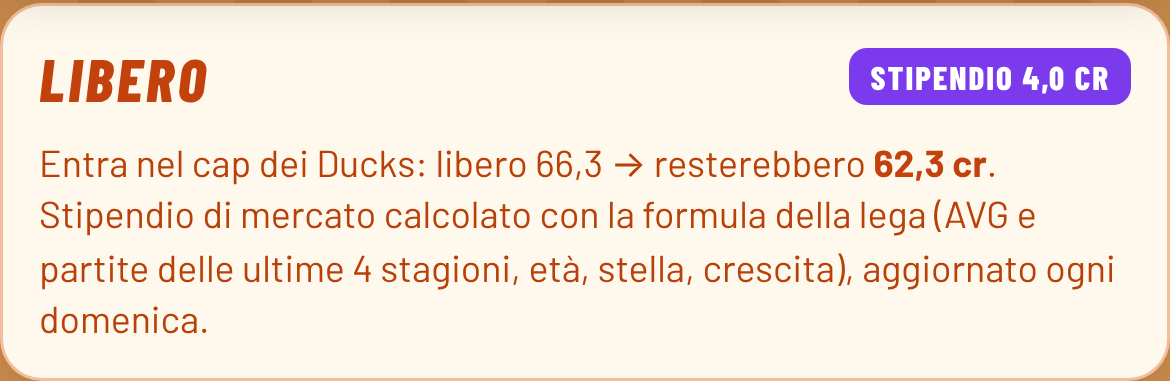
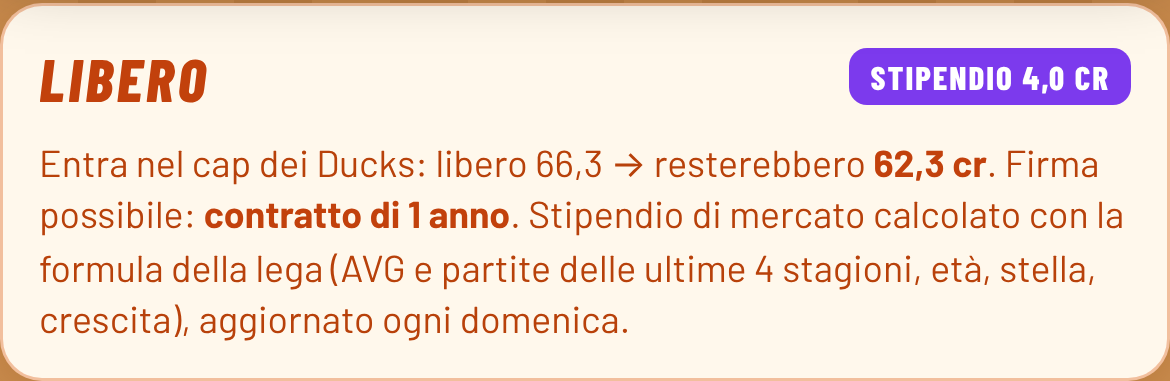
Durata dei contratti secondo lo stipendio (v51)
Claude-Session: https://claude.ai/code/session_01FtktU2z5U25oG1RZDpQNAc

diff --git a/contratti.js b/contratti.js
@@ -31,7 +31,9 @@ let CT=null;function ct(){if(CT)return CT;CT={};if(typeof CAP==="undefined")retu
  for(const t in CAP)for(const p of CAP[t].pl||[]){const y=(p[1]||[]).filter(v=>v!=null);if(!y.length)continue;CT[nk(p[0])]={n:p[0],t,y,rk:!!p[2],tot:y.reduce((a,b)=>a+b,0)}}return CT}
 const contr=n=>ct()[nk(n)]||null;
 /* (48) stipendio di mercato con la formula della lega (stipendi-data.js, aggiornato ogni domenica) */
-let SN=null;const stipOf=n=>{if(typeof STIP==='undefined')return null;if(!SN){SN={};for(const k in STIP.p)SN[nk(k)]=STIP.p[k]}return SN[nk(n)]||null};window.e16Stip=n=>{const x=stipOf(n);return x?x[0]:null};
+let SN=null;const stipOf=n=>{if(typeof STIP==='undefined')return null;if(!SN){SN={};for(const k in STIP.p)SN[nk(k)]=STIP.p[k]}return SN[nk(n)]||null};/* (51) durata dei contratti secondo lo stipendio (regola della lega): 4–9,9 cr = solo 1 anno; 10–14,9 = 1 o 2 anni; da 15 = da 1 a 3 anni */
+const durMax=v=>v>=15?3:v>=10?2:1;const durTxt=v=>{const m=durMax(v);return m===1?"contratto di 1 anno":`contratto da 1 a ${m} anni`};window.e16DurMax=durMax;
+window.e16Stip=n=>{const x=stipOf(n);return x?x[0]:null};
 const trend=x=>!x||x[6]==null||x[6]===x[0]?'':x[0]>x[6]?` <i class="stup">▲ ${f1(x[0]-x[6])}</i>`:` <i class="stdn">▼ ${f1(x[6]-x[0])}</i>`;
 let LI=null;const listino=n=>{if(typeof LISTINO==="undefined")return null;if(!LI){LI={};for(const k in LISTINO)LI[nk(k)]=[k,...LISTINO[k]]}return LI[nk(n)]||null};
 /* AVG di stagione per nome normalizzato (dai tabellini) */
@@ -52,10 +54,10 @@ window.e16ContrBox=function(n){const c0=contr(n),c=c0&&own(n)?c0:null;/* (45) co
  if(c){const left=c.y.length,v=verd(n,c.y[0]);
   return `<div class="ctrbox"><div class="ctrh"><b>Contratto</b>${c.rk?`<span class="ctrrk">R · rookie</span>`:""}${pill(v)}</div>
   <div class="ctry">${YL.map((y,i)=>`<div class="cy${c.y[i]!=null?" on":""}${i===0?" now":""}"><small>${y}</small><b>${c.y[i]!=null?f1(c.y[i]):"–"}</b></div>`).join("")}</div>
-  ${(()=>{/* (49) il contratto firmato NON cambia: lo stipendio della formula è solo la previsione del RINNOVO alla scadenza */const SX=stipOf(n);if(!SX)return"";const left=c.y.length;return `<p class="ctrs ctrmk">Rinnovo previsto (contratto in scadenza a fine ${YF[left-1]}, nuovo dal ${YF[left]||"2031/32"}): <b>${f1(SX[0])} cr/anno</b>${trend(SX)} · ${SX[0]>c.y[0]+.05?`<b class="stup">+${f1(SX[0]-c.y[0])}</b> rispetto a oggi`:SX[0]<c.y[0]-.05?`<b class="stdn">−${f1(c.y[0]-SX[0])}</b> rispetto a oggi`:"come oggi"}. Il contratto firmato resta questo fino alla scadenza; la previsione si aggiorna ogni domenica con la formula della lega.</p>`})()}<p class="ctrs">Totale <b>${f1(c.tot)} cr</b> · ${left===1?"<b>scade a fine stagione</b>":`${left} anni · fino al ${YF[left-1]}`}${TM[c.t]?` · ${e(TM[c.t].nome)}`:""}</p></div>`}
+  ${(()=>{/* (49) il contratto firmato NON cambia: lo stipendio della formula è solo la previsione del RINNOVO alla scadenza */const SX=stipOf(n);if(!SX)return"";const left=c.y.length;return `<p class="ctrs ctrmk">Rinnovo previsto (contratto in scadenza a fine ${YF[left-1]}, nuovo dal ${YF[left]||"2031/32"}): <b>${f1(SX[0])} cr/anno</b>${trend(SX)}, ${durTxt(SX[0])} · ${SX[0]>c.y[0]+.05?`<b class="stup">+${f1(SX[0]-c.y[0])}</b> rispetto a oggi`:SX[0]<c.y[0]-.05?`<b class="stdn">−${f1(c.y[0]-SX[0])}</b> rispetto a oggi`:"come oggi"}. Il contratto firmato resta questo fino alla scadenza; la previsione si aggiorna ogni domenica con la formula della lega.</p>`})()}<p class="ctrs">Totale <b>${f1(c.tot)} cr</b> · ${left===1?"<b>scade a fine stagione</b>":`${left} anni · fino al ${YF[left-1]}`}${TM[c.t]?` · ${e(TM[c.t].nome)}`:""}</p></div>`}
  const SX=stipOf(n),L=listino(n),pr=SX?SX[0]:L?L[1]:null;if(!own(n)&&pr!=null){/* svincolato: prezzo = stipendio di mercato con la formula della lega (o il listino se manca) */const lib=capLib("QUE"),ok=pr<=lib;
   return `<div class="ctrbox fa"><div class="ctrh"><b>Libero</b><span class="ctrrk">${SX?"stipendio":"listino"} ${f1(pr)} cr${trend(SX)}</span>${pill(verd(n,pr))}</div>
-  <p class="ctrs">${ok?`Entra nel cap dei Ducks: libero ${f1(lib)} → resterebbero <b>${f1(lib-pr)} cr</b>.`:`Non entra nel cap dei Ducks: libero ${f1(lib)} cr, servono ${f1(pr-lib)} cr in più.`} ${SX?"Stipendio di mercato calcolato con la formula della lega (AVG e partite delle ultime 4 stagioni, età, stella, crescita), aggiornato ogni domenica.":"Prezzo di listino (manca lo stipendio calcolato)."}</p></div>`}
+  <p class="ctrs">${ok?`Entra nel cap dei Ducks: libero ${f1(lib)} → resterebbero <b>${f1(lib-pr)} cr</b>.`:`Non entra nel cap dei Ducks: libero ${f1(lib)} cr, servono ${f1(pr-lib)} cr in più.`} ${SX?`Firma possibile: <b>${durTxt(pr)}</b>. `:""}${SX?"Stipendio di mercato calcolato con la formula della lega (AVG e partite delle ultime 4 stagioni, età, stella, crescita), aggiornato ogni domenica.":"Prezzo di listino (manca lo stipendio calcolato)."}</p></div>`}
  return ""};
 
 /* ---------- PAGINA SALARY CAP DELLA SQUADRA ---------- */
@@ -95,7 +97,7 @@ function capPage(id){const C=CAP[id];if(!C)return`<div class="note">Contratti no
  <div class="ccsec">Chi posso permettermi <small>svincolati con prezzo ≤ ${f1(lib)} cr</small></div>
  ${fa.length?`<div class="ccfa">${fa.slice(0,15).map(x=>{const v=verd(x.n,x.pr);return`<div class="ccfr" data-pl="${e(x.n)}"><div><b>${e(x.n)}</b><small>${e(x.t)} · ${x.s.gp} part.${(()=>{/* (44) età e under 25 */const a=typeof etaOf==="function"?etaOf(x.n):null;return a!=null?` · ${a} anni${a<25?` <i class="fau25">U25</i>`:""}`:""})()}</small></div><span class="ccfv"><b>${f1(x.s.avg)}</b><small>AVG</small></span><span class="ccfv"><b>${f1(x.pr)}</b><small>cr</small></span>${v?`<span class="ctrv ${v.k} sm">${f2(v.r)}</span>`:""}</div>`}).join("")}</div>`:`<p class="note">Nessuno svincolato con prezzo di listino entro ${f1(lib)} cr.</p>`}
  <div class="ccsec">Scadenze <small>fine stagione 26/27</small></div>
- ${exp.length?`<div class="ccexp">${exp.map(c=>{const SX=stipOf(c.n);return `<span data-pl="${e(c.n)}">${e(c.n)} <b>${f1(c.y[0])}</b>${SX?` → rinnovo <b>${f1(SX[0])}</b>`:""}</span>`}).join("")}</div>${exp.some(c=>stipOf(c.n))?`<p class="note">→ rinnovo = stipendio previsto alla rifirma con la formula della lega (si aggiorna ogni domenica); il contratto attuale non cambia.</p>`:""}<p class="note">Nel 27/28 si liberano <b>${f1(freed)} cr</b>: il cap libero passa a ${f1(CAP_TOT-(C.occ[1]||0))} cr (senza nuovi contratti).</p>`:`<p class="note">Nessun contratto in scadenza quest'anno.</p>`}
+ ${exp.length?`<div class="ccexp">${exp.map(c=>{const SX=stipOf(c.n);return `<span data-pl="${e(c.n)}">${e(c.n)} <b>${f1(c.y[0])}</b>${SX?` → rinnovo <b>${f1(SX[0])}</b> (max ${durMax(SX[0])} ${durMax(SX[0])===1?"anno":"anni"})`:""}</span>`}).join("")}</div>${exp.some(c=>stipOf(c.n))?`<p class="note">→ rinnovo = stipendio previsto alla rifirma con la formula della lega (si aggiorna ogni domenica); il contratto attuale non cambia.</p>`:""}<p class="note">Nel 27/28 si liberano <b>${f1(freed)} cr</b>: il cap libero passa a ${f1(CAP_TOT-(C.occ[1]||0))} cr (senza nuovi contratti).</p>`:`<p class="note">Nessun contratto in scadenza quest'anno.</p>`}
  <div class="note">Cifre in crediti dal file della lega. <span class="ctrrk">R</span> = contratto da rookie. AVG/cr = AVG medio di stagione per credito di stipendio: affare = tra il 25% migliore della lega, caro = tra il 25% peggiore. Taglio: 10% di quello che resta del contratto (minimo 1), +1 se spalmato sugli anni; è solo una simulazione. Listino: prezzo per firmare uno svincolato (all anno, ipotesi).</div>`}
 window.e16CapPage=capPage;
 document.addEventListener("click",ev=>{const b=ev.target.closest("[data-ccut],[data-csim],[data-creset]");if(!b)return;ev.preventDefault();ev.stopPropagation();const d=b.dataset,y=scrollY;

diff --git a/stats.js b/stats.js
@@ -348,7 +348,7 @@ function vFa(){const ok=needOld(),dax=DAXS(),SZ=dax?[["2627","26/27"],["2526","2
  <div class="chips esqm">${[["avg","AVG"],["own","% posseduto"],["pr","Prezzo"],["age","Più giovani"]].map(([k,l])=>`<button class="chip" data-fas="${k}" aria-pressed="${FA.sort===k}">${l}</button>`).join("")}<button class="chip" data-fau="1" aria-pressed="${FA.u25}">Solo under 25</button>${dax?`<label class="szchip" aria-pressed="true"><select data-fasz="1">${SZ.map(([k,l])=>`<option value="${k}"${k===FA.sz?" selected":""}>Stagione ${l}</option>`).join("")}</select></label>`:""}</div>
  ${ok?"":`<p class="note">Carico le stagioni passate…</p>`}
  <div class="tbl-wrap"><table class="fatbl e16fa"><thead><tr><th>#</th><th>Giocatore</th><th>Età</th><th>AVG</th><th>Prezzo</th></tr></thead><tbody>${L.slice(0,200).map(row).join("")||`<tr><td colspan="5">Nessun free agent.</td></tr>`}</tbody></table></div>
- <p class="note">Free agent della lega ESPN (aggiornati in automatico). AVG, partite e minuti della stagione ${SZ.find(x=>x[0]===FA.sz)[1]}. Prezzo = stipendio di mercato con la formula della lega, aggiornato ogni domenica (se manca: listino; costo all anno per firmarlo); ✓ = entra nel cap libero dei Ducks (${lib!=null?f1(lib):"–"} cr). U25 = sotto i 25 anni oggi (la lega chiede almeno 3 under 25 per squadra). Tocca un nome per il profilo.</p>`}
+ <p class="note">Free agent della lega ESPN (aggiornati in automatico). AVG, partite e minuti della stagione ${SZ.find(x=>x[0]===FA.sz)[1]}. Prezzo = stipendio di mercato con la formula della lega, aggiornato ogni domenica. Durata: 4–9,9 cr solo 1 anno, 10–14,9 cr 1 o 2 anni, da 15 cr da 1 a 3 anni (se manca: listino; costo all anno per firmarlo); ✓ = entra nel cap libero dei Ducks (${lib!=null?f1(lib):"–"} cr). U25 = sotto i 25 anni oggi (la lega chiede almeno 3 under 25 per squadra). Tocca un nome per il profilo.</p>`}
 document.addEventListener("click",ev=>{if(cur!=="fag")return;const u=ev.target.closest("[data-fau]");if(u){FA.u25=!FA.u25;render();return}const b=ev.target.closest("[data-fas]");if(!b)return;FA.sort=b.dataset.fas;render()});
 document.addEventListener("change",ev=>{if(ev.target.dataset&&ev.target.dataset.fasz&&cur==="fag"){FA.sz=ev.target.value;render()}});
 document.addEventListener("input",ev=>{if(ev.target.id!=="faq")return;FA.q=ev.target.value;const p=ev.target.selectionStart;render();const i=document.getElementById("faq");if(i){i.focus();try{i.setSelectionRange(p,p)}catch(_){}}});

diff --git a/sw.js b/sw.js
@@ -1,5 +1,5 @@
 /* ESPN 16 – service worker: prima la rete (dati sempre freschi), la cache solo se si è offline. Cambia V a ogni pubblicazione. */
-const V="espn16-v50";
+const V="espn16-v51";
 self.addEventListener("install",e=>self.skipWaiting());
 self.addEventListener("activate",e=>e.waitUntil(caches.keys().then(K=>Promise.all(K.filter(k=>k!==V).map(k=>caches.delete(k)))).then(()=>self.clients.claim())));
 self.addEventListener("fetch",e=>{const u=new URL(e.request.url);if(e.request.method!=="GET"||u.origin!==location.origin)return;

diff --git a/NOTE_SVILUPPO.md b/NOTE_SVILUPPO.md
@@ -105,3 +105,5 @@
 (49) 10/11/2026 – Lo stipendio della formula non cambia i contratti firmati: nel profilo è «Rinnovo previsto» (dal primo anno dopo la scadenza, con differenza rispetto allo stipendio attuale); nelle Scadenze del salary cap «→ rinnovo X».
 
 (50) 10/11/2026 – Regole contratti spiegate dalla lega: free agent aggiornano la richiesta ogni domenica alle 18 a partire dalla 3ª settimana (stipendi.mjs: prima conta solo il passato); rookie +10% l anno (già nei contratti); giocatori in rosa: contratto fisso, rinnovo con la formula. Scelte del Draft: contratto da rookie previsto (foglio Draft: 10 cr alla 1ª, −0,22 a scelta, arrotondato a 0,5, minimo 4).
+
+(51) 10/11/2026 – Durata dei contratti secondo lo stipendio (regola della lega): 4–9,9 cr solo 1 anno, 10–14,9 cr 1 o 2 anni, da 15 cr da 1 a 3 anni. Mostrata nel profilo (svincolati: «Firma possibile»; in rosa: durata del rinnovo previsto), nelle Scadenze del salary cap e nella nota della pagina Free agent (contratti.js durMax/durTxt, window.e16DurMax).
